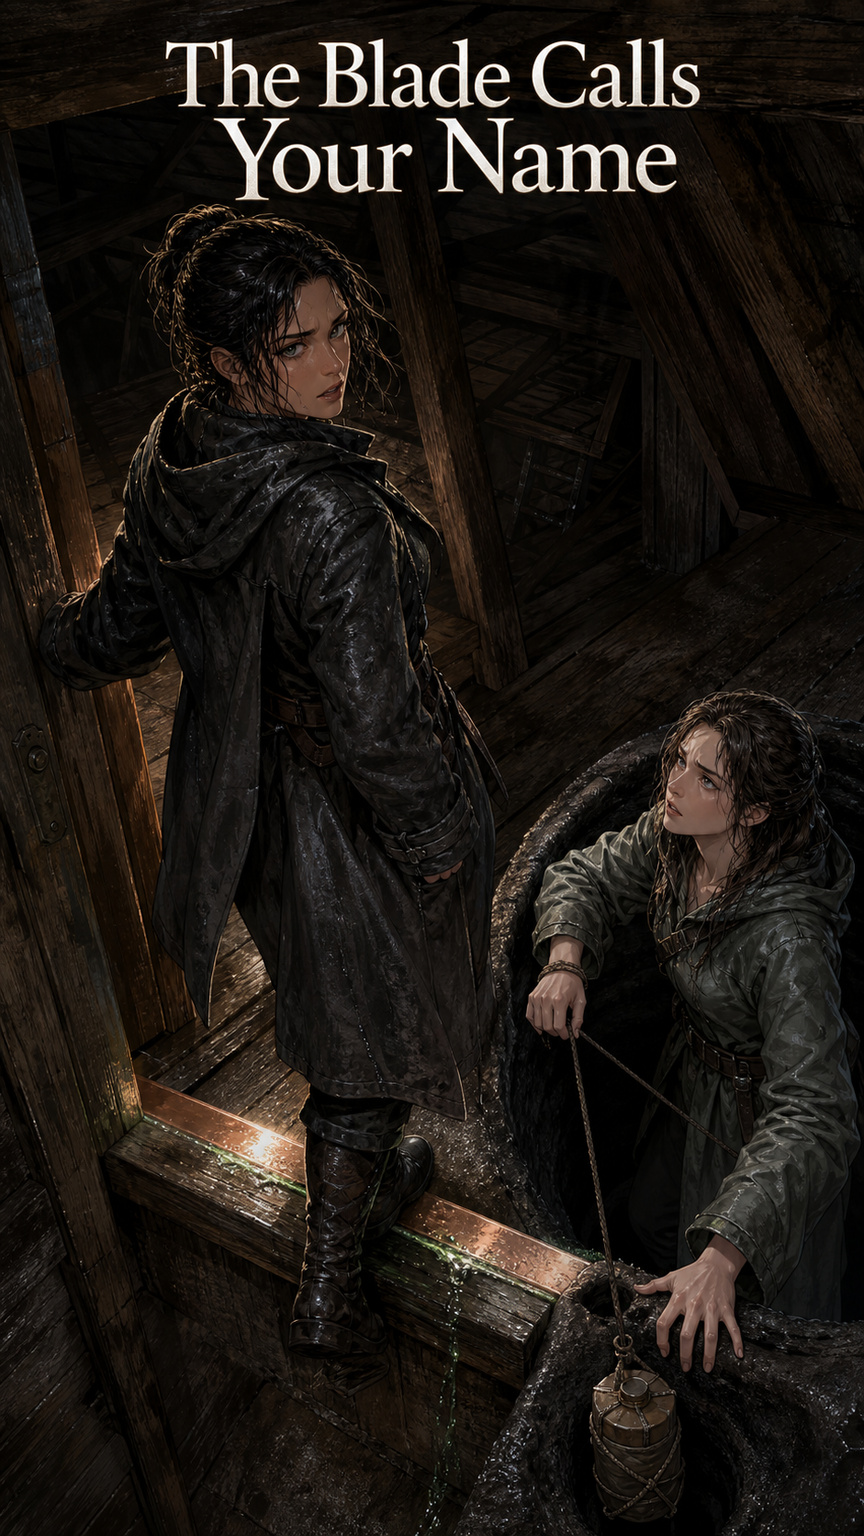
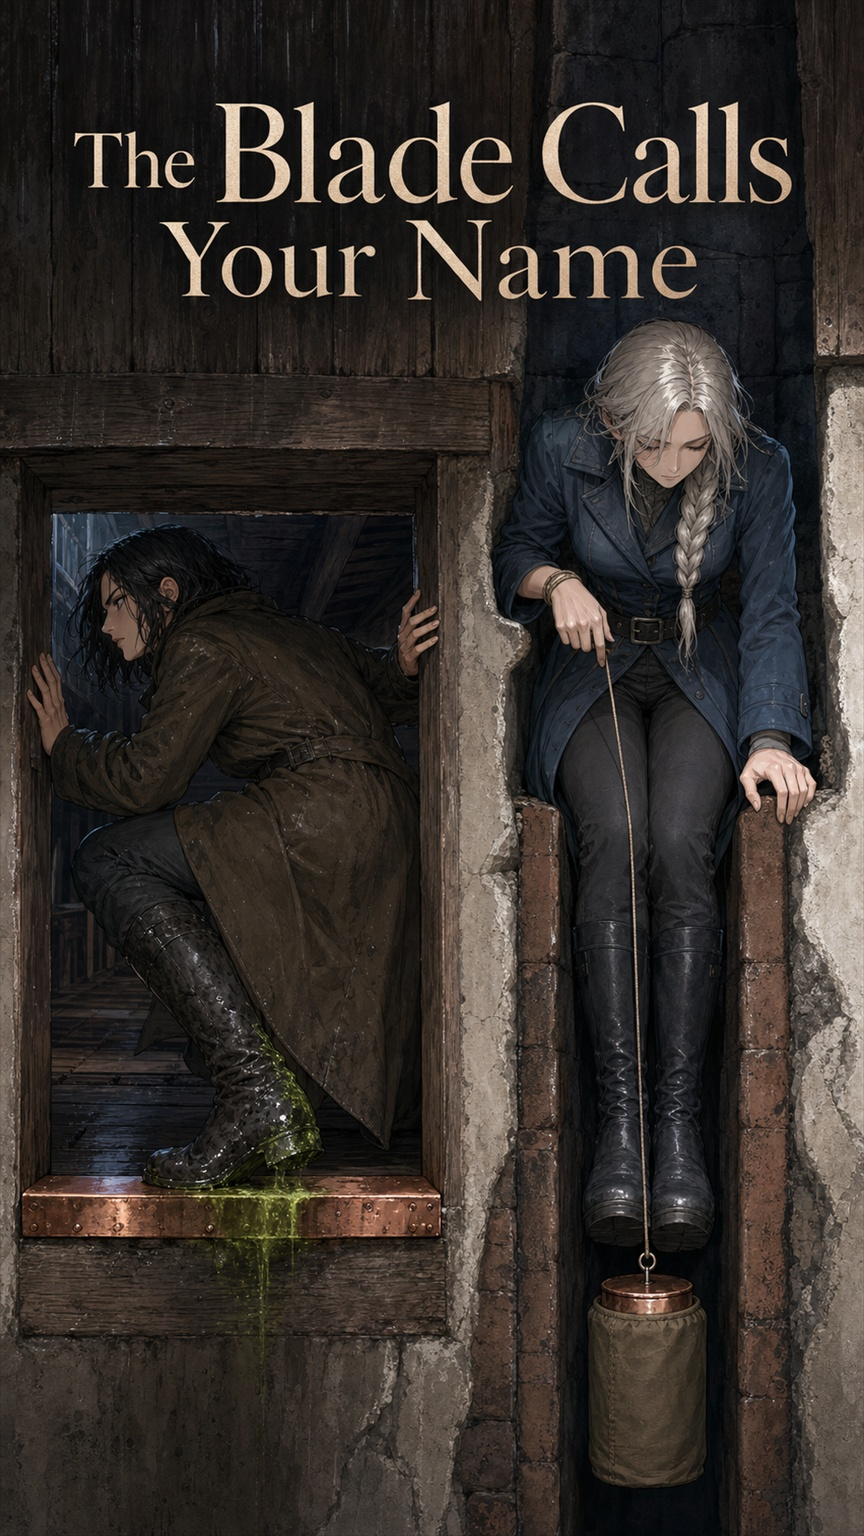
Strengthen visual cover review (#113)
## Summary

- replaces the rejected **The Blade Calls Your Name** cover and captured
Pages image with a visually inspected composition
- expands cover acceptance from three broad gates to six explicit gates:
story promise, scene truth, role legibility, cover read, image
integrity, and production finish
- requires both illustrator and coordinator to open the exact saved JPEG
with the visual inspection tool at reduced size and full-resolution
detail
- requires visible evidence for each gate; generation responses,
self-reports, and file metadata do not count as visual acceptance
- clarifies that `Test-Stories.ps1` performs technical JPEG validation
only

## Why

The first cover passed because the subjective review repeated a
plausible generation report, while the automated validator checked only
JPEG readability and dimensions. In the actual pixels, the chute, jar
support, threshold, character distinction, and opposing actions were
wrong or ambiguous. These changes make those failures explicit and force
pixel-based inspection.

## Visual validation

The replacement was opened with the visual tool at full size, at 243×432
cover-card size, and as a scene-detail crop. It visibly shows:

- Marram’s wet boot contacting the green-live copper doorway sill
- Lilt descending feet-first in a separate body-width chute
- both boots inside the chute with one continuous cord and the wrapped
jar below them
- distinct faces, builds, clothing, silhouettes, and opposing movement
[…]

diff --git a/.agents/skills/story-room/SKILL.md b/.agents/skills/story-room/SKILL.md
@@ -34,15 +34,26 @@ Never use it to reopen a completed current or locked legacy story.
    the complete story and writes only `title-image.jpg`, an exact 9:16 portrait,
    spoiler-light title visual. Unless the assignment overrides it, use the
    agent's premium anime/light-novel key-visual default.
+   After saving, both the illustrator and coordinator must use the available
+   image-viewing tool on that exact file. Generation output, prompt text, file
+   metadata, and written self-reports do not count as visual inspection. View
+   the whole cover at reduced size and full-resolution details; use additional
+   visual crops or views for doubtful anatomy, objects, typography, or spatial
+   relations. Keep any temporary review images outside the story directory and
+   do not commit them.
    The illustrator self-reviews and the coordinator independently reviews the
-   actual saved file through three gates: story promise, thumbnail cover read,
-   and full-resolution image integrity. A mechanically clean but generic image,
+   actual saved file at cover-card size and full resolution through six gates:
+   story promise, scene truth, role legibility, cover read, image integrity,
+   and production finish. Each pass must cite visible evidence rather than
+   repeat the generation prompt or the illustrator's claims. If a required
+   action, role, object connection, or spatial fact is ambiguous, fail it rather
+   than filling the gap from the prose. A mechanically clean but generic image,
    or one that omits the prompt's defining relationship or contradiction, does
    not pass. When a gate fails, send a regeneration brief that identifies what
    to preserve, the blocking miss, the required focal or compositional change,
-   and the unchanged constraints. Use a new composition for an editorial miss
-   and a targeted correction for a localized defect. Do not capture until all
-   three gates pass.
+   and the unchanged constraints. Use a new composition for an editorial,
+   scene-truth, or role-legibility miss and a targeted correction for a localized
+   defect. Do not capture until all six gates pass.
 8. Run final validation, then capture the story with
    `python pages/build.py capture <slug>`. This mandatory final handoff updates
    the stored prose catalog and its matching Pages cover asset.
@@ -114,7 +125,12 @@ caption, logo, border, watermark, or other text. Generate the illustration and
 verbatim title together in one image-generation pass; canvas normalization may
 not add or replace typography.
 
-Before saving, review the candidate through all three gates:
+Before saving, review the candidate at cover-card size and full resolution
+through all six gates. For each pass, identify visible evidence in the actual
+candidate. Do not infer a missing action, relationship, or physical fact from
+the prose or generation prompt. After saving the normalized JPEG, open the exact
+saved path with the available image-viewing tool and repeat the gates; file
+metadata and the generation response cannot establish a visual pass:
 
 - **Story promise:** the image reads as this story rather than merely its genre.
   It makes the defining relationship, contrast, or pressure visually primary,
@@ -126,6 +142,19 @@ Before saving, review the candidate through all three gates:
   enough people or unmistakable visual evidence to make that contrast legible.
   Reducing the cast or hiding anatomy risk is valid only if it does not erase the
   premise.
+- **Scene truth:** verify every story-critical action, position, direction of
+  movement, spatial constraint, possession, support, and cause-and-effect
+  relation in the selected moment. Openings, rooms, vehicles, restraints,
+  tools, and other affordances must have plausible scale and geometry. Reject
+  an attractive approximation that changes how the scene works, puts an object
+  in the wrong hand or place, reverses movement, removes the stated constraint,
+  or makes the decisive action physically ambiguous.
+- **Role legibility:** verify that story-important figures remain distinct in
+  silhouette, face, clothing, posture, and placement. A viewer must be able to
+  tell who is doing what, who holds power, how figures are grouped, and which
+  objects belong to whom without prose explanation. Reject near-duplicate
+  faces, ambiguous couples or groups, or static posing that erases opposing
+  choices.
 - **Cover read:** inspect at reduced cover-card scale. The exact title remains
   immediately readable once; the silhouette, focal hierarchy, emotional read,
   important relationships, and story-specific object or setting cue survive
@@ -138,13 +167,19 @@ Before saving, review the candidate through all three gates:
   anatomy, ambiguous couples or roles, floating or disconnected objects,
   incoherent perspective, impossible support or restraint geometry, accidental
   extra figures, unintended text or pseudo-text, watermarks, and crop damage.
+- **Production finish:** verify intentional lighting, value and color
+  separation, consistent rendering, clean edges, and professional typography.
+  Reject muddy or crushed values, overprocessed texture, malformed or damaged
+  title letters, accidental tangencies, generic decoration, visible scaling or
+  JPEG artifacts, and title placement outside the safe crop.
 
-If any gate fails, regenerate before saving. For a story-promise or focal miss,
-choose a materially different composition instead of cosmetically repairing the
-same idea. For a localized integrity defect, make one targeted correction while
-repeating every invariant that already works. Use this regeneration structure:
+If any gate fails, regenerate before saving. For a story-promise, scene-truth,
+role-legibility, or focal miss, choose a materially different composition
+instead of cosmetically repairing the same idea. For a localized integrity or
+finish defect, make one targeted correction while repeating every invariant
+that already works. Use this regeneration structure:
 `Preserve`, `Blocking miss`, `Change`, and `Keep fixed`. Return the final cover
 thesis, one-sentence visual description, exact verified title, concise pass
-result for all three gates, final prompt/spec, and saved path. The image is
+result for all six gates, final prompt/spec, and saved path. The image is
 presentation, not canon authority, and must never cause prose or continuity
 edits.

diff --git a/AGENTS.md b/AGENTS.md
@@ -94,23 +94,53 @@ one named stage.
    reads the complete final prose and writes only the spoiler-light 9:16 title
    visual. Unless the prompt says otherwise, use the repository's premium
    anime/light-novel key-visual default defined in that agent.
-   The illustrator and coordinator must each judge the saved image through
-   three separate gates:
+   After the JPEG is saved, both the illustrator and coordinator must open that
+   exact file with the available image-viewing tool. Image-generation output,
+   prompt text, file metadata, and the illustrator's written report are not
+   substitutes for seeing the saved pixels. Inspect the whole composition at
+   reduced cover size and inspect full-resolution details; when a hand, face,
+   object connection, title letter, or spatial relation remains doubtful, use
+   additional visual crops or views before deciding. Temporary review images
+   must stay outside the story directory and must not be committed.
+   The illustrator and coordinator must each judge the actual saved image at
+   cover-card size and full resolution through six separate gates. A pass must
+   name visible evidence for every gate; repeating the prompt or the
+   illustrator's self-report is not review:
    - **Story promise** — the image foregrounds the story's distinctive emotional
      or narrative contradiction, could not be mistaken for a generic genre
      cover, preserves character roles and relationships, and does not imply a
-     resolution the prose has not earned.
+      resolution the prose has not earned.
+   - **Scene truth** — every depicted action, position, direction of travel,
+     spatial constraint, possession, support, and cause-and-effect relation
+     needed to read the chosen moment agrees with the prose. Openings, rooms,
+     vehicles, restraints, tools, and other affordances have plausible scale
+     and geometry. An attractive approximation fails when it changes how the
+     scene works or makes the decisive action physically ambiguous.
+   - **Role legibility** — story-important figures are distinguishable by
+     silhouette, face, clothing, posture, and placement; the viewer can tell who
+     is doing what, who holds power, and which objects belong to whom without a
+     prose explanation. Near-duplicate faces, ambiguous grouping, or static
+     poses that erase opposing choices fail.
    - **Cover read** — at thumbnail scale the exact title is readable once, the
      focal hierarchy is immediate, and the important figures, relationships,
      and story-specific objects remain legible rather than collapsing into a
      crowded tableau.
    - **Image integrity** — at full resolution anatomy and object counts are
      plausible, hands and faces withstand close inspection, perspective and
-     physical connections are coherent, and there is no unintended text,
-     pseudo-text, watermark, or visual artifact.
+      physical connections are coherent, and there is no unintended text,
+      pseudo-text, watermark, or visual artifact.
+   - **Production finish** — the image has intentional lighting, color
+     separation, edge treatment, and typography rather than muddy values,
+     overprocessed texture, illegible letterforms, accidental tangencies,
+     generic decoration, or inconsistent rendering. The exact title remains
+     undamaged inside the safe crop and the JPEG shows no visible scaling or
+     compression defects.
    The coordinator must compare the actual saved image against the prompt and
    final prose and make an independent decision; the illustrator's self-report
-   is not acceptance. Technical polish cannot compensate for a generic or
+   and the technical validator are not acceptance. If a required action, role,
+   object connection, or spatial fact is ambiguous, treat it as failed rather
+   than resolving it charitably
+   from the prose. Technical polish cannot compensate for a generic or
    off-promise concept. When a gate fails, delegate a concise regeneration brief
    that says what to preserve, names the blocking miss, directs the composition
    or focal change, and restates the invariants. Require a new composition for a
